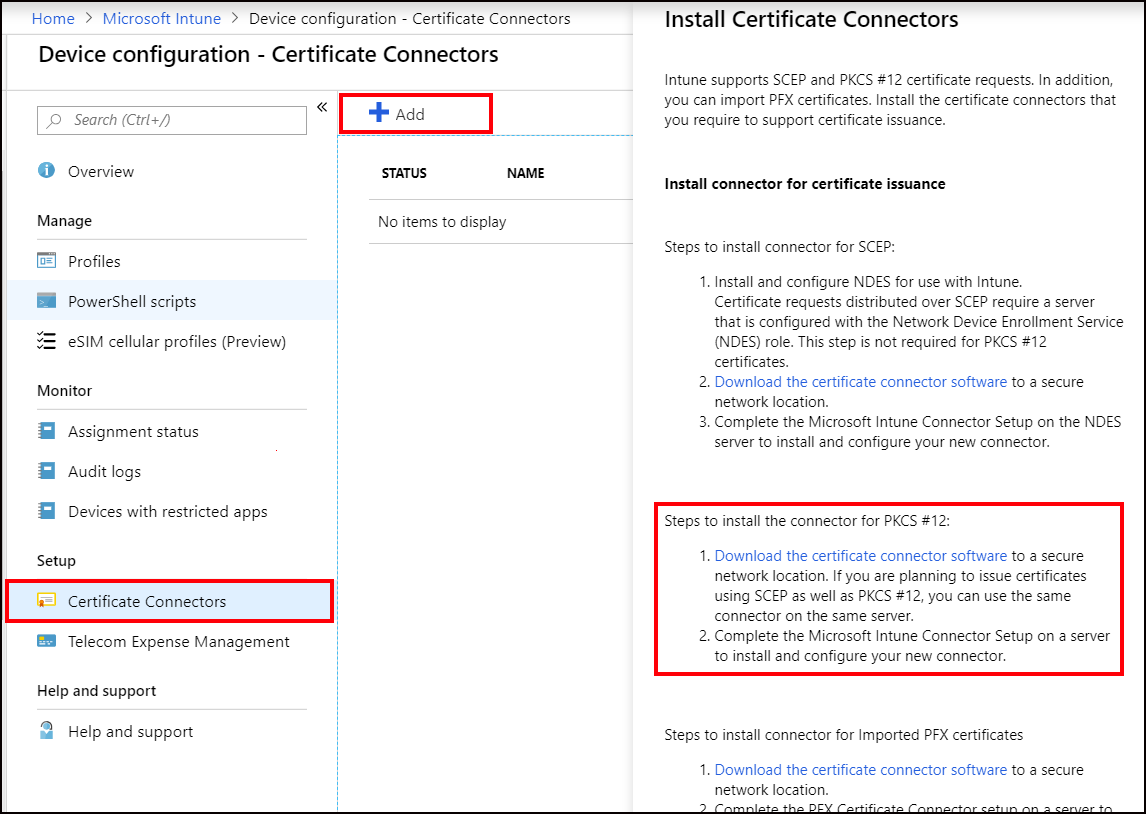
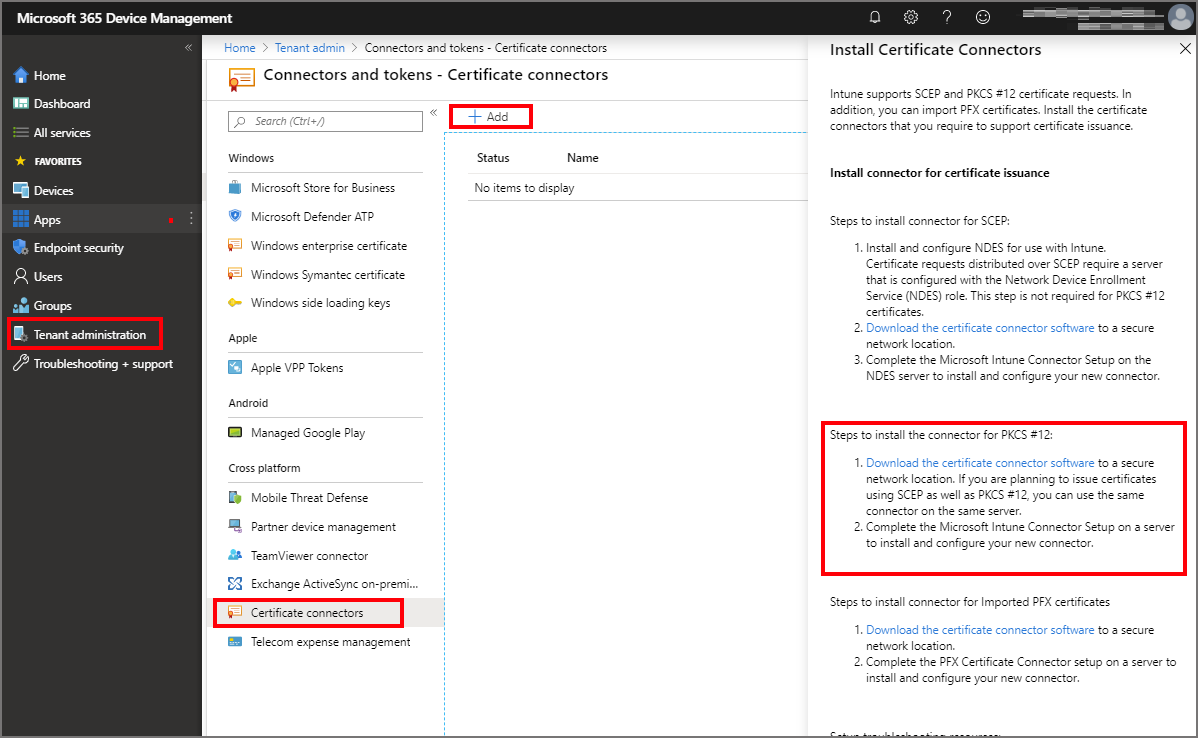
Revise for new MEMAC

diff --git a/intune/protect/certficates-pfx-configure.md b/intune/protect/certficates-pfx-configure.md
@@ -144,13 +144,14 @@ To authenticate a device with VPN, WiFi, or other resources, a device needs a ro
 > [!IMPORTANT]  
 > The Microsoft Intune Certificate Connector cannot be installed on the issuing Certificate Authority (CA), and instead must be installed on a separate Windows server.  
 
-1. Sign in to [Intune](https://go.microsoft.com/fwlink/?linkid=2090973).
-2. Select **Device configuration** > **Certification Connectors** > **Add**.
-3. Download and save the connector file to a location you can access from the server where you're going to install the connector.
+1. Sign in to the [Microsoft Endpoint Manager Admin Center](https://go.microsoft.com/fwlink/?linkid=2109431).
 
-    ![Microsoft Intune Certificate Connector download](./media/certficates-pfx-configure/download-ndes-connector.png)
+2. Select **Tenant administration** > ** > **Certification connectors** > **Add**.
+
+3. Click *Download the certificate connector software* for the connector for PKCS #12, and save the file to a location you can access from the server where you're going to install the connector.
+
+   ![Microsoft Intune Certificate Connector download](./media/certficates-pfx-configure/download-ndes-connector.png)
  
-
 4. After the download completes, sign in to the server. Then:
 
     1. Be sure .NET 4.5 Framework or higher is installed, as it's required by the NDES Certificate connector. .NET 4.5 Framework is automatically included with Windows Server 2012 R2 and newer versions.
@@ -168,37 +169,44 @@ To authenticate a device with VPN, WiFi, or other resources, a device needs a ro
 
 ## Create a trusted certificate profile
 
-1. Sign in to [Intune](https://go.microsoft.com/fwlink/?linkid=2090973) and go to **Device configuration** > **Profiles** > **Create profile**.
-    ![Navigate to Intune and create a new profile for a trusted certificate](./media/certficates-pfx-configure/certificates-pfx-configure-profile-new.png)
+1. Sign in to the [Microsoft Endpoint Manager Admin Center](https://go.microsoft.com/fwlink/?linkid=2109431).
 
-2. Enter the following properties:
+2. Select **Devices** > **Configuration profiles** > **Create profile**.
+
+   ![Navigate to Intune and create a new profile for a trusted certificate](./media/certficates-pfx-configure/certificates-pfx-configure-profile-new.png)
+
+3. Enter the following properties:
 
     - **Name** for the profile
     - Optionally set a description
     - **Platform** to deploy the profile to
     - Set **Profile type** to **Trusted certificate**
 
-3. Go to **Settings**, and enter the .cer file Root CA Certificate you previously exported.
+4. Select **Settings**, and specify the .cer file Root CA Certificate you previously exported.
 
    > [!NOTE]
    > Depending on the platform you chose in **Step 2**, you may or may not have an option to choose the **Destination store** for the certificate.
 
-   ![Create a profile and upload a trusted certificate](./media/certficates-pfx-configure/certificates-pfx-configure-profile-fill.png) 
+   ![Create a profile and upload a trusted certificate](./media/certficates-pfx-configure/certificates-pfx-configure-profile-fill.png)
 
-4. Select **OK** > **Create** to save your profile.
-5. To assign the new profile to one or more devices, see [assign Microsoft Intune device profiles](../configuration/device-profile-assign.md).
+5. Select **OK** > **Create** to save your profile.
+
+6. To assign the new profile to one or more devices, see [assign Microsoft Intune device profiles](../configuration/device-profile-assign.md).
 
 ## Create a PKCS certificate profile
 
-1. Sign in to [Intune](https://go.microsoft.com/fwlink/?linkid=2090973) and go to **Device configuration** > **Profiles** > **Create profile**.
-2. Enter the following properties:
+1. Sign in to the [Microsoft Endpoint Manager Admin Center](https://go.microsoft.com/fwlink/?linkid=2109431).
+
+2. Select  and go to **Devices** > **Configuration profiles** > **Create profile**.
+
+3. Enter the following properties:
 
     - **Name** for the profile
     - Optionally set a description
     - **Platform** to deploy the profile to
     - Set **Profile type** to **PKCS certificate**
 
-3. Go to **Settings**, and configure the properties that apply to the platform you selected:  
+4. Select **Settings**, and configure the properties that apply to the platform you selected:
    
    |Setting     | Platform     | Details   |
    |------------|------------|------------|
@@ -214,8 +222,9 @@ To authenticate a device with VPN, WiFi, or other resources, a device needs a ro
    |**Allow all apps access to private key** |macOS  |Set to **Enable** to give apps that are configured for the associated mac device access to the PKCS certificates private key. <br><br> For more information on this setting, see *AllowAllAppsAccess* the Certificate Payload section of [Configuration Profile Reference](https://developer.apple.com/business/documentation/Configuration-Profile-Reference.pdf) in the Apple developer documentation. |
    |**Root Certificate**             |**-** Android device administrator <br> **-** Android Enterprise (*Device Owner*, *Work Profile*) |Select a root CA certificate profile that was previously assigned. |
 
-4. Select **OK** > **Create** to save your profile.
-5. To assign the new profile to one or more devices, see [assign Microsoft Intune device profiles](../configuration/device-profile-assign.md).
+5. Select **OK** > **Create** to save your profile.
+
+6. To assign the new profile to one or more devices, see [assign Microsoft Intune device profiles](../configuration/device-profile-assign.md).
 
    > [!NOTE]
    > On devices with an Android Enterprise profile, certificates installed using a PKCS certificate profile are not visible on the device. To confirm successful certificate deployment, check the status of the profile in the Intune console.
@@ -264,7 +273,7 @@ When you create a macOS PKCS certificate profile, options for the subject name f
   - **{{DeviceName}}**
   - **{{FullyQualifiedDomainName}}** *(Only applicable for Windows and domain-joined devices)*
   - **{{MEID}}**
-   
+
   You can specify these variables, followed by the text for the variable, in the textbox. For example, the common name for a device named *Device1* can be added as **CN={{DeviceName}}Device1**.
 
   > [!IMPORTANT]  
@@ -275,21 +284,25 @@ When you create a macOS PKCS certificate profile, options for the subject name f
 
 
 ## What's new for Connectors
-Updates for the two certificate connectors are released periodically. When we update a connector, you can read about the changes here. 
+
+Updates for the two certificate connectors are released periodically. When we update a connector, you can read about the changes here.
 
 The *PFX Certificates Connector for Microsoft Intune* [supports automatic updates](#requirements), while the *Intune Certificate Connector* is updated manually.
 
-### May 17, 2019  
+### May 17, 2019
+
 - **PFX Certificates Connector for Microsoft Intune - version 6.1905.0.404**  
   Changes in this release:  
   - Fixed an issue where existing PFX certificates continue to be reprocessed which causes the connector to stop processing new requests. 
 
-### May 6, 2019  
+### May 6, 2019
+
 - **PFX Certificates Connector for Microsoft Intune - version 6.1905.0.402**  
   Changes in this release:  
   - The polling interval for the connector is reduced from 5 minutes to 30 seconds.
  
-### April 2, 2019  
+### April 2, 2019
+
 - **Intune Certificate Connector - version 6.1904.1.0**  
   Changes in this release:  
   - Fixed an issue where the connector might fail to enroll to Intune after signing in to the connector with a global administrator account.  
